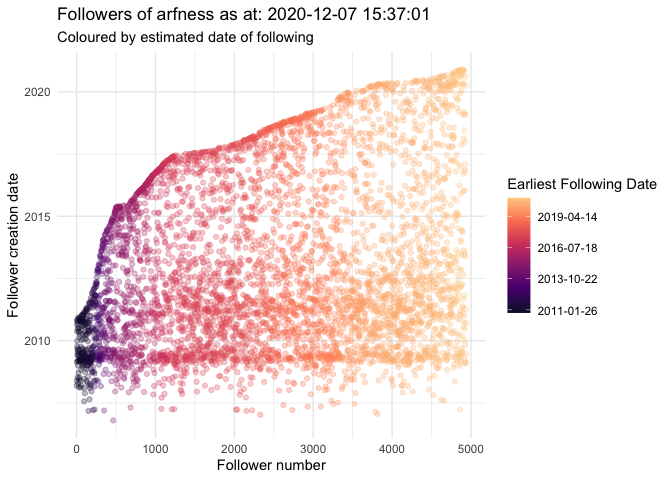
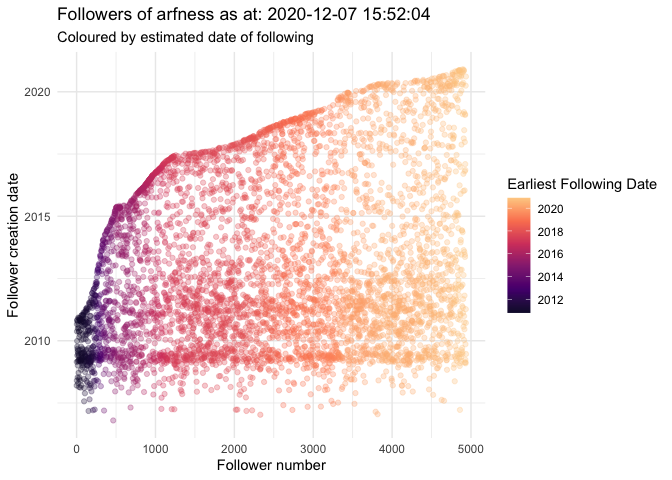
update readme.

Changed region(s): [[0.7812, 0.4062, 0.9062, 0.5312], [0.7812, 0.5625, 0.9062, 0.6562], [0.5625, 0.0, 0.6562, 0.0312]]

diff --git a/readme.md b/readme.md
@@ -68,17 +68,17 @@ order.
      fm <- rtweetXtras::common_follower_matrix(rstats_list, follower_depth = 200, token = NULL)
      dplyr::glimpse(fm)
 
-    ## Rows: 869
+    ## Rows: 862
     ## Columns: 9
-    ## $ screen_name       <chr> "Dunson30612519", "AnalyticsMn", "pisanoontweet", "…
-    ## $ user_id           <chr> "1239237087548891136", "1317986654280388609", "1918…
-    ## $ hadleywickham     <dbl> 1, 1, 1, 1, 0, 0, 0, 1, 1, 1, 0, 0, 0, 0, 0, 0, 0, …
-    ## $ dataandme         <dbl> 1, 1, 0, 1, 1, 1, 1, 1, 1, 1, 1, 1, 1, 1, 1, 1, 1, …
-    ## $ juliasilge        <dbl> 1, 1, 1, 1, 1, 1, 1, 1, 1, 1, 1, 1, 0, 0, 1, 1, 1, …
-    ## $ statgarrett       <dbl> 1, 1, 1, 1, 1, 1, 1, 0, 0, 0, 1, 1, 1, 1, 1, 0, 1, …
-    ## $ thomasp85         <dbl> 1, 1, 1, 0, 1, 1, 1, 0, 0, 0, 0, 0, 1, 1, 0, 1, 0, …
-    ## $ sum_intersections <dbl> 5, 5, 4, 4, 4, 4, 4, 3, 3, 3, 3, 3, 3, 3, 3, 3, 3, …
-    ## $ ranking           <int> 1, 1, 2, 2, 2, 2, 2, 3, 3, 3, 3, 3, 3, 3, 3, 3, 3, …
+    ## $ screen_name       <chr> "Sujay59188677", "qimo2099", "Burcuerbn", "richyejk…
+    ## $ user_id           <chr> "1080140151362330625", "1329384005561688065", "7655…
+    ## $ hadleywickham     <dbl> 1, 1, 1, 1, 1, 1, 1, 1, 1, 1, 1, 1, 0, 0, 0, 0, 0, …
+    ## $ dataandme         <dbl> 1, 1, 1, 0, 0, 0, 0, 0, 0, 0, 1, 1, 1, 1, 1, 1, 1, …
+    ## $ juliasilge        <dbl> 1, 1, 1, 1, 1, 1, 1, 0, 0, 0, 0, 0, 0, 0, 0, 0, 0, …
+    ## $ statgarrett       <dbl> 1, 0, 1, 0, 1, 0, 0, 1, 1, 1, 0, 0, 1, 1, 1, 1, 1, …
+    ## $ thomasp85         <dbl> 1, 1, 0, 1, 0, 1, 1, 1, 1, 1, 1, 1, 1, 1, 1, 1, 1, …
+    ## $ sum_intersections <dbl> 5, 4, 4, 3, 3, 3, 3, 3, 3, 3, 3, 3, 3, 3, 3, 3, 3, …
+    ## $ ranking           <int> 1, 2, 2, 3, 3, 3, 3, 3, 3, 3, 3, 3, 3, 3, 3, 3, 3, …
 
 ### account\_activity
 
@@ -103,12 +103,26 @@ to analyse the change in follower creation dates over time.
 
     arfness_followers <- rtweetXtras::get_followers_fast("arfness")
 
-    ## [1] "arfness follower count = 4881"
-    ## [1] "followers captured: 4880 out of 4881"
+    ## [1] "arfness follower count = 4937"
+    ## [1] "followers captured: 4937 out of 4937"
 
     rtweetXtras::follower_dot_plot(arfness_followers, point_colour = "earliest_follow")
 
 ![](readme_files/figure-markdown_strict/follower_dot_plot-1.png)
+
+### scatter\_ts\_interactive
+
+`scatter_ts_interactive(df, title = "", print_immediately = TRUE)`
+
+Builds an interactive timeline of tweets indicating time of tweet,
+author, type (tweet, retweet, quote, reply), and rate of tweets (posts
+per second) - posts per second is calculated as moving average over 10
+tweets. Posts per second are calculated separately for content tweets
+(tweets, quotes and replies) and copy tweets (retweets). Output is an
+Apache echarts HTML widget.
+
+    mickey <- rtweet::search_tweets("Mickey Mouse", n = 100)
+    rtweetXtras::scatter_ts_interactive(mickey, title = "100 tweets about Mickey Mouse")
 
 ### Other functions
 
